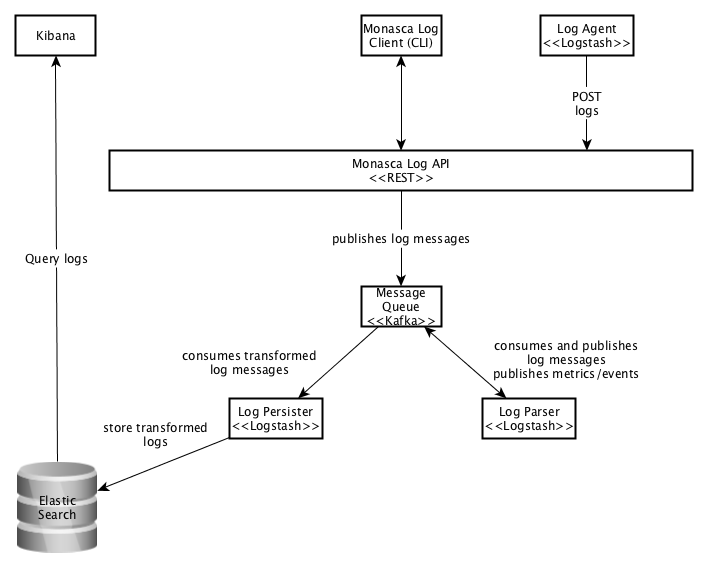
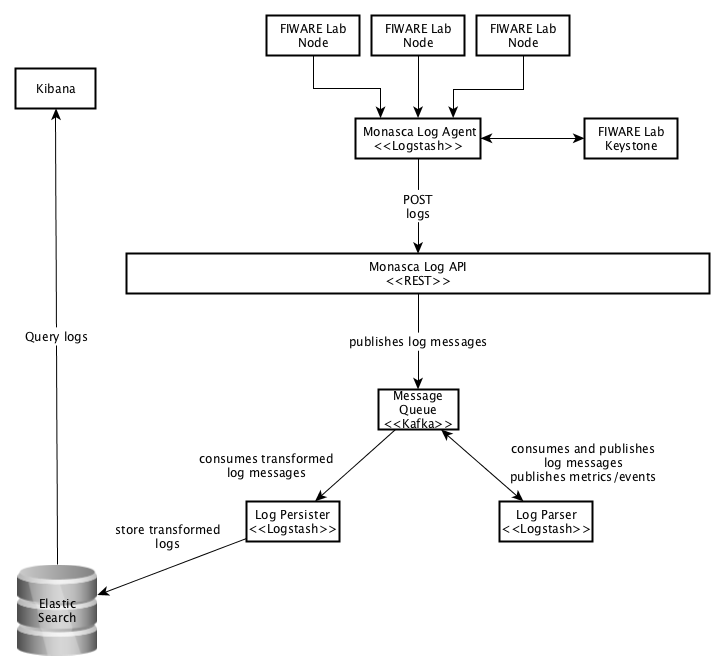
architecture.md: added FIWARE Lab Nodes and Keystone to image

diff --git a/doc/architecture.md b/doc/architecture.md
@@ -2,8 +2,12 @@
 The architecture of the system can be depicted as follows:
 ![system architecture](img/monasca_log_api.png)
 
-The logs are sent to the system by the Monasca Log Agent, installed on a remote machine. The Log Agent collects logs from FIWARE Lab Nodes via syslog and sends them to the Monasca Log API. The logs are then published into the Kafka message queue.
+The logs are sent using syslog from [FIWARE Lab][1] Nodes to the Monasca Log Agent, installed on a remote machine.
+
+Then, after authenticating to the FIWARE Lab Keystone, the Monasca Log Agent sends the logs to the Monasca Log API. The logs are then published into the Kafka message queue.
 
 In Kafka, two topics for publishing logs are defined: `monasca-log` and `logstash-log`. The first topic is for logs that are published by the Monasca Log API and received by the Log Parser. The second topic is for logs that are transformed and published by the Log Parser and received by the Log Persister.
 
 Then, the Log Persister defines the indexing for each log message and sends them to Elasticsearch for storage. After the logs are stored, they can be searched and visualized in Kibana, a front-end application to Elasticsearch.
+
+[1]:https://www.fiware.org/lab/
